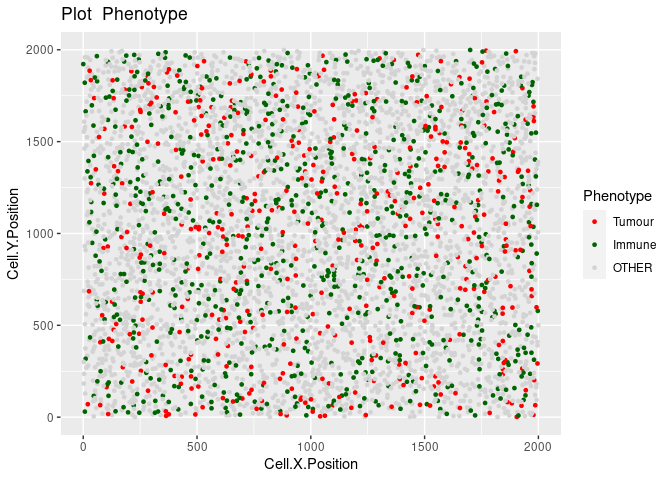
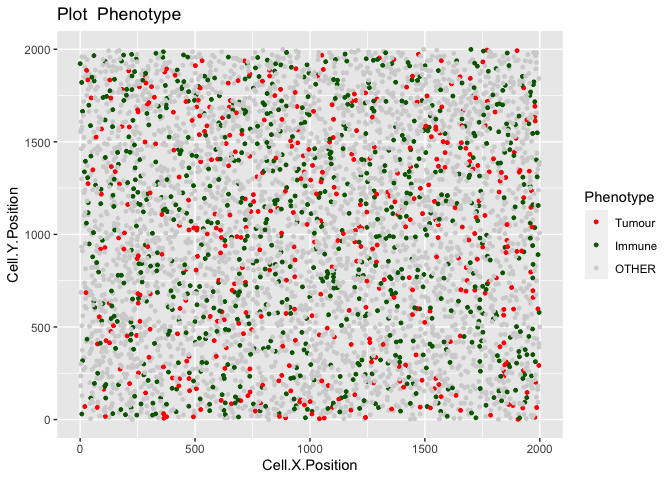
use TIS to plot image directly.

diff --git a/README.md b/README.md
@@ -30,14 +30,8 @@ library(spaSim)
 set.seed(610)
 mix_background <- TIS(n_cells = 5000, width = 2000, height = 2000, min_d = 10,
                       names_of_bg_cells = c("Tumour","Immune","Others"), 
-                      proportions_of_bg_cells = c(0.1, 0.2, 0.7))
+                      proportions_of_bg_cells = c(0.1, 0.2, 0.7),
+                      plot.image = TRUE)
 ```
 
-<img src="man/figures/README-example-1.png" width="100%" />
-
-``` r
-plot_cell_categories(mix_background, categories_of_interest =c("Tumour","Immune"), 
-                     colour_vector = c("red", "darkgreen"), feature_colname = "Phenotype")
-```
-
-<img src="man/figures/README-unnamed-chunk-2-1.png" width="100%" />
+<img src="man/figures/README-example-1.png" width="100%" /><img src="man/figures/README-example-2.png" width="100%" />
